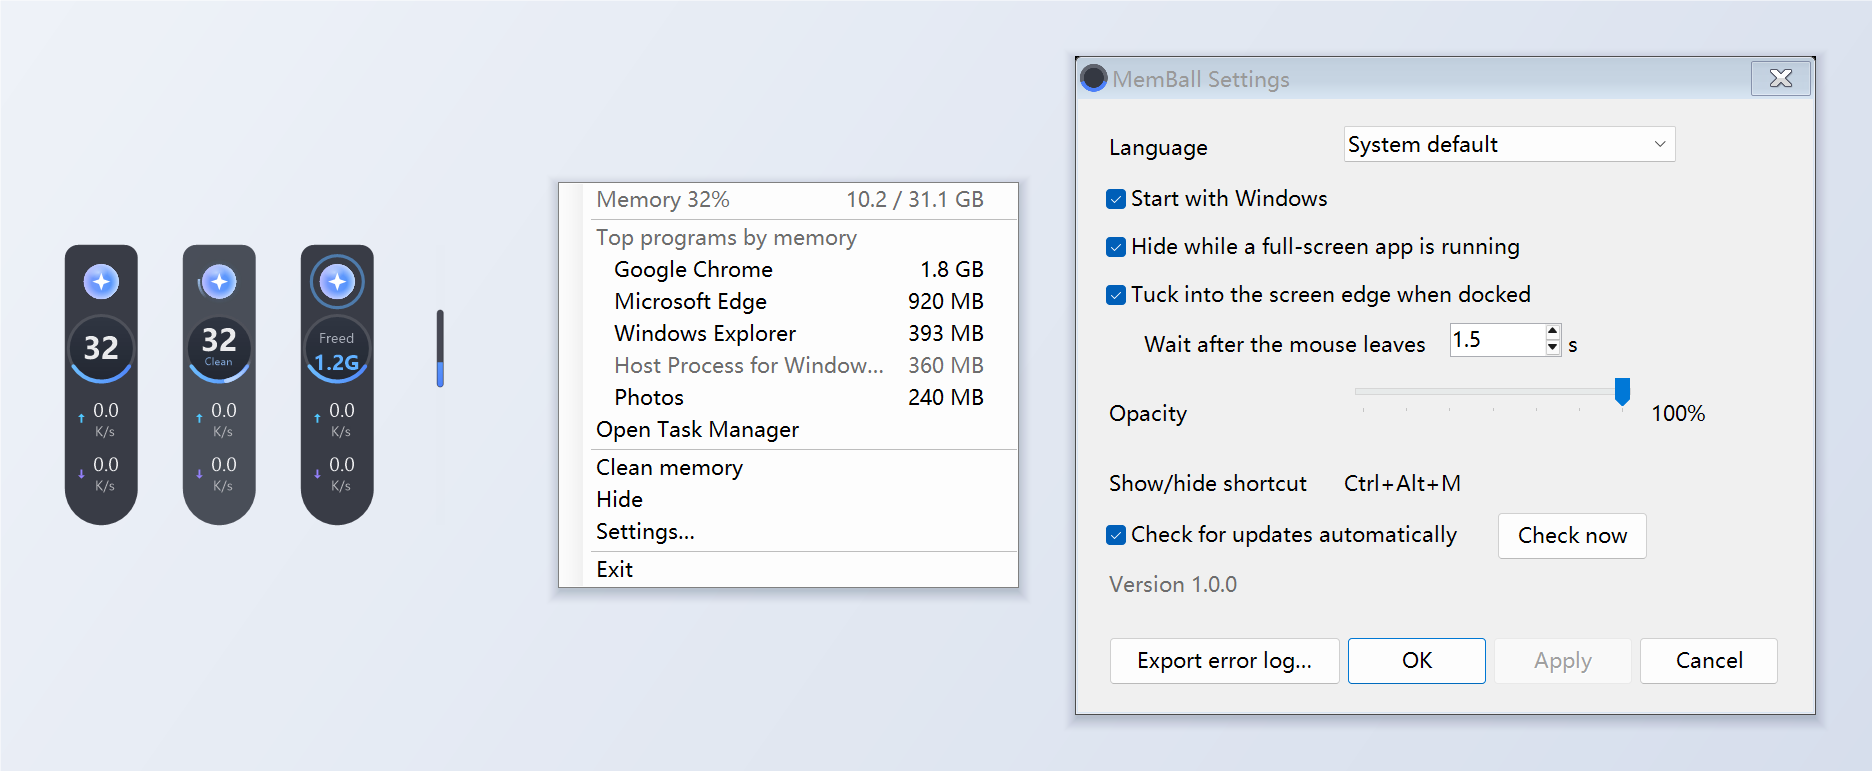
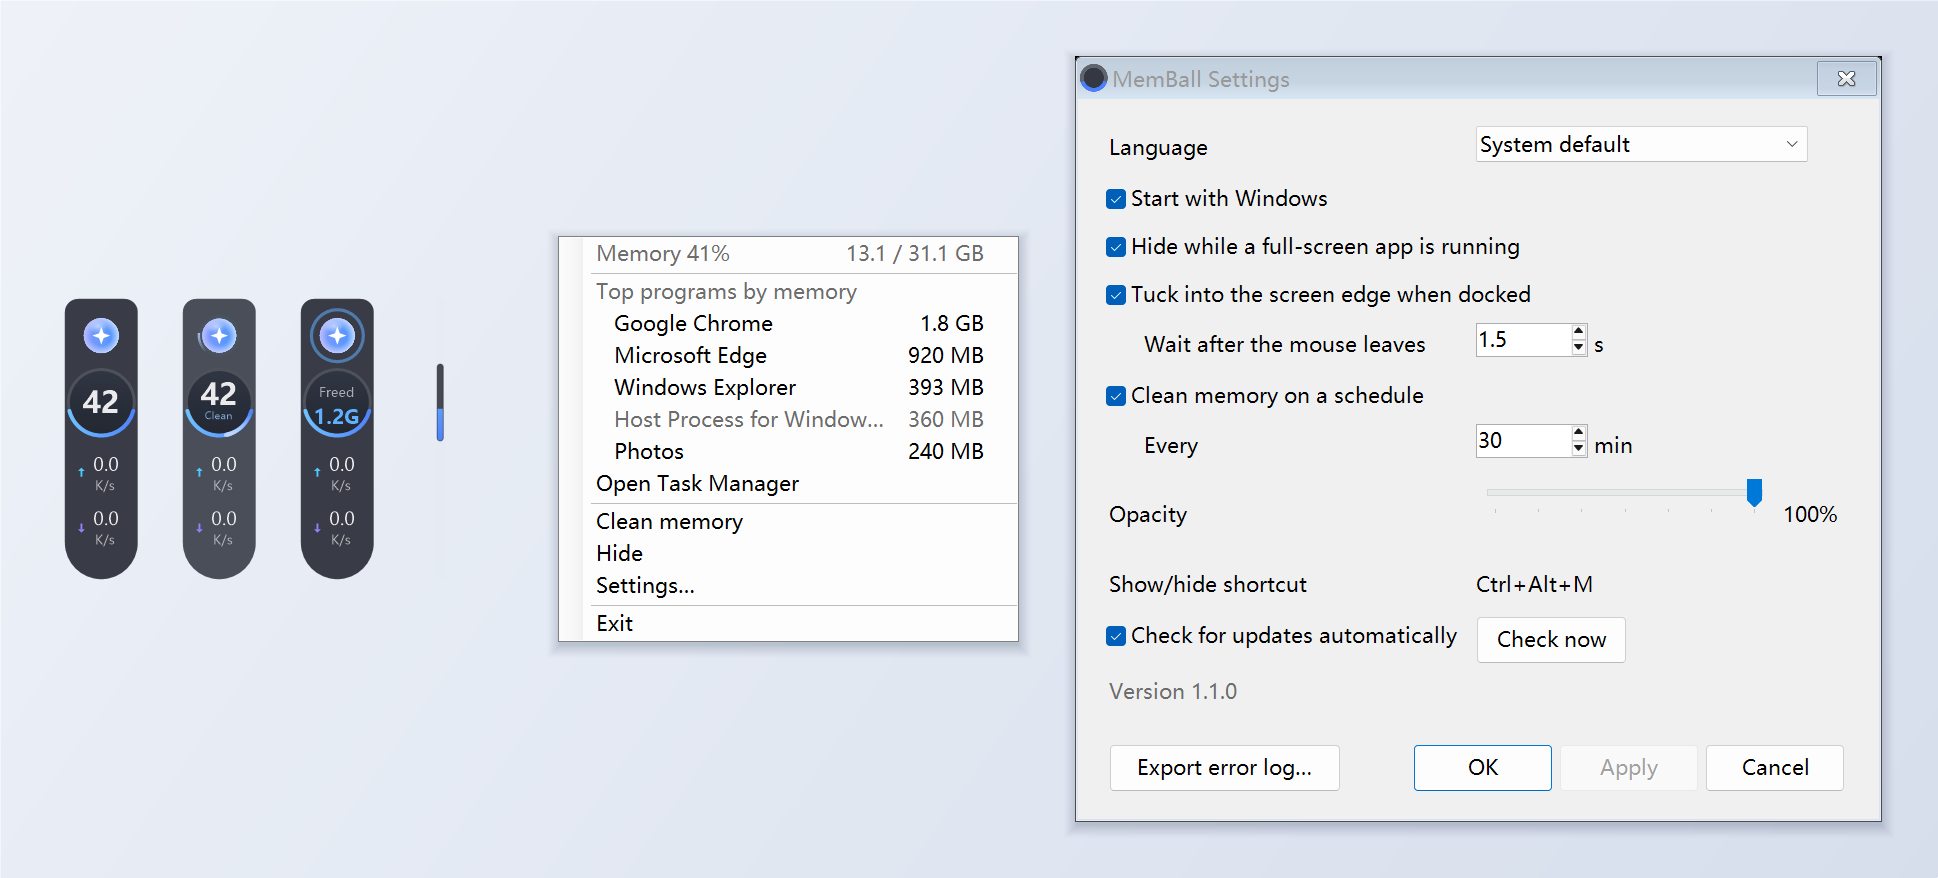
Version 1.1.0: scheduled cleaning

Changed region(s): [[0.2788, 0.0623, 0.9915, 0.965], [0.031, 0.3113, 0.2479, 0.6848], [0.7436, 0.4981, 0.9605, 0.5914]]

diff --git a/README.fr.md b/README.fr.md
@@ -13,11 +13,12 @@ Une boule flottante pour Windows : elle affiche la mémoire utilisée et le déb
 - **Anneau de mémoire** : mémoire utilisée en pourcentage, en direct ; bleu sous 60 %, orange de 60 à 80 %, rouge au-delà de 80 %
 - **Débit réseau** : envoi et réception
 - **Nettoyage en un clic** : cliquez sur la boule pour réduire les jeux de travail des programmes ; elle indique la quantité de mémoire libérée
+- **Nettoyage programmé** : en option, toutes les 5 à 720 minutes ; un nettoyage prévu pendant un jeu ou une vidéo en plein écran attend la fin
 - **Ancrage au bord** : déposez-la près du bord gauche ou droit de l'écran et elle s'y accroche ; quand la souris s'éloigne, elle se rentre en une fine barre qui affiche toujours la mémoire utilisée, et ressort quand la souris touche le bord
 - **Masquée en plein écran** : elle s'efface quand un jeu, une vidéo ou une autre application en plein écran est au premier plan
 - **Menu du clic droit** : mémoire en Go, les cinq programmes qui utilisent le plus de mémoire (que vous pouvez arrêter depuis le menu), Gestionnaire des tâches
 - **Icône de la zone de notification** : affiche la mémoire utilisée ; double-cliquez dessus pour masquer ou afficher la boule
-- **Paramètres** : langue (English / 简体中文 / Français), lancement au démarrage de Windows, masquage en plein écran, rentrée dans le bord, opacité, recherche automatique des mises à jour
+- **Paramètres** : langue (English / 简体中文 / Français), lancement au démarrage de Windows, masquage en plein écran, rentrée dans le bord, nettoyage programmé, opacité, recherche automatique des mises à jour
 - **Mises à jour** : vous prévient quand une nouvelle version sort et se met à jour en un clic après confirmation
 
 ## Téléchargement et installation

diff --git a/README.md b/README.md
@@ -13,11 +13,12 @@ A floating memory ball for Windows: it shows memory use and live network speed a
 - **Memory ring**: live memory use in percent; blue below 60%, orange from 60 to 80%, red above 80%
 - **Network speed**: upload and download
 - **One-click clean**: click the ball to trim the working sets of running programs; it shows how much memory was freed
+- **Scheduled cleaning**: optionally clean every 5 to 720 minutes; a clean that falls due during a full-screen game or video waits until it ends
 - **Edge docking**: drop it near the left or right screen edge and it snaps there; when the mouse leaves, it tucks into a thin strip that still shows memory use, and slides back out when the mouse touches the edge
 - **Hides for full screen**: fades out while a game, video or other full-screen app is in front
 - **Right-click menu**: memory in GB, the five programs using the most memory (which you can end from there), Task Manager
 - **Tray icon**: shows memory use; double-click it to hide or show the ball
-- **Settings**: language (English / 简体中文 / Français), start with Windows, hide for full screen, edge tucking, opacity, automatic update check
+- **Settings**: language (English / 简体中文 / Français), start with Windows, hide for full screen, edge tucking, scheduled cleaning, opacity, automatic update check
 - **Updates**: tells you when a new version is out and updates in one click after you confirm
 
 ## Download and install

diff --git a/README.zh-CN.md b/README.zh-CN.md
@@ -13,11 +13,12 @@ Windows 内存悬浮球：在屏幕边上显示内存占用和实时网速，单
 - **内存圆环**：实时显示内存占用百分比；低于 60% 为蓝色，60–80% 为橙色，80% 以上为红色
 - **网速**：上传和下载速度
 - **一键清理**：单击悬浮球即可修剪各程序的工作集，并显示释放了多少内存
+- **定时清理**：可选每隔 5 到 720 分钟自动清理一次；到点时如果正在全屏玩游戏或看视频，会等结束后再清理
 - **贴边缩进**：拖到屏幕左右边缘附近松手会自动吸附；鼠标离开后缩成一条仍显示内存占用的细条，鼠标碰到边缘时再滑出来
 - **全屏自动隐藏**：玩游戏、看视频等全屏程序在前台时自动淡出
 - **右键菜单**：内存用量（GB）、占用内存最多的 5 个程序（可在菜单中直接结束）、任务管理器
 - **托盘图标**：显示内存占用；双击可隐藏或显示悬浮球
-- **设置**：语言（English / 简体中文 / Français）、开机自动启动、全屏时自动隐藏、贴边缩进、不透明度、自动检查更新
+- **设置**：语言（English / 简体中文 / Français）、开机自动启动、全屏时自动隐藏、贴边缩进、定时清理、不透明度、自动检查更新
 - **更新**：有新版本时提醒你，确认后一键更新
 
 ## 下载与安装
